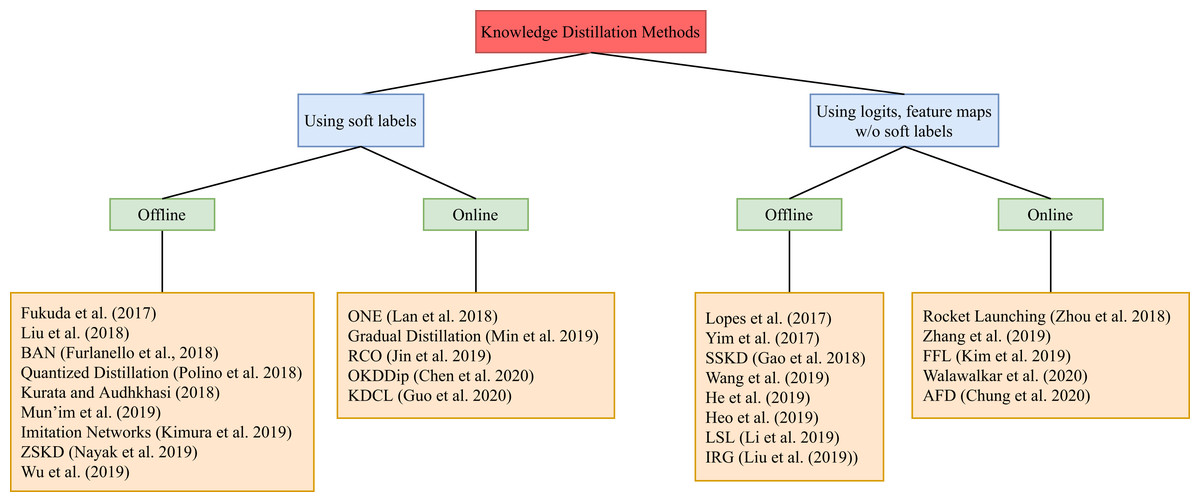
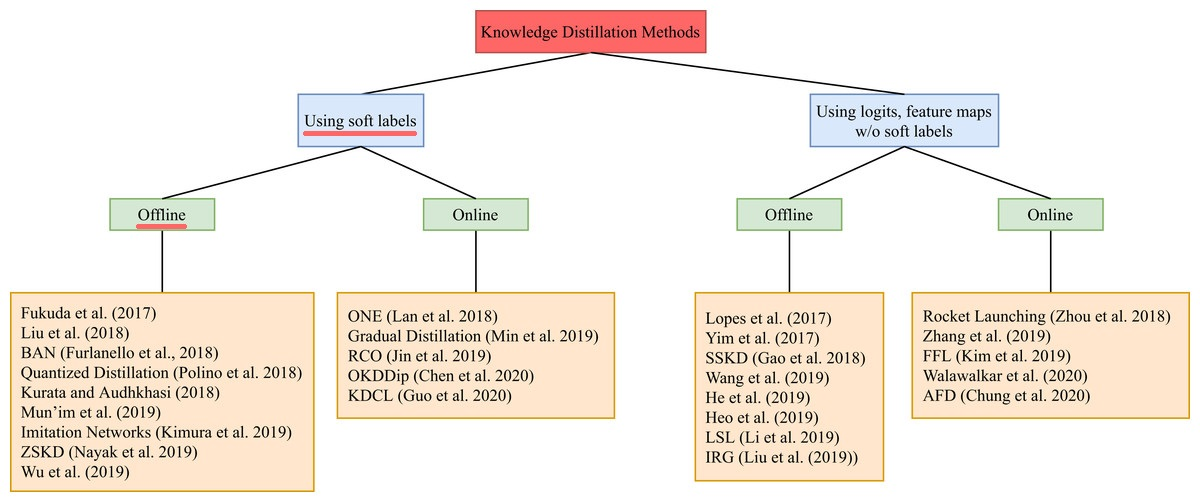
text

diff --git a/_drafts/2023-10-31-GPT-lite-Compression.md b/_drafts/2023-10-31-GPT-lite-Compression.md
@@ -5,13 +5,13 @@ categories: [machine learning, Transformer, GPT, DeepSpeed]
 tags: [machinelearning]
 ---
 
-Previously, in [Distributed training of a large GPT model with DeepSpeed]({{ site.baseurl }}{% post_url 2023-08-18-GPT-lite-DeepSpeed %}), we foccused on training a very large model on a distributed network of GPUs, to increase training speedup or model accuracy. In this post, we look at the other side of the spectrum: we will look at techniques for model speedup and compression that allow for a lower runtime and memory footprint during inference. This is particularly relevant for systems that require low latency or low cost to operate.
+Previously, in [Distributed training of a large GPT model with DeepSpeed]({{ site.baseurl }}{% post_url 2023-08-18-GPT-lite-DeepSpeed %}), we foccused on training a very large model on a distributed network of GPUs. The aim is to increase training speedup via parallelism, and increase model accuracy by adding model complexity. In this post, we will look at the opposite problem in the ML spectrum: model compression for lower runtime and lower memory footprint during inference. This is particularly relevant for embeddeded and real time systems where time and cost are an issue.
 
 ### Model and dataset
 
-Just like in our [previous post]({{ site.baseurl }}{% post_url 2023-08-18-GPT-lite-DeepSpeed %}), we will define the methods `get_dataset()` and `get_model()` that return a `torch.utils.data.Dataset` and `torch.nn.Module` for the two implementations that we will study in this post:
-1. the small variant of the GPT2 model ([Language Models are Few-Shot Learners](https://arxiv.org/abs/2005.14165), that we call the GPTlite model, <a href="/assets/GPT-lite-DeepSpeed/gptlite.py">`gptlite.py`</a>, trained on the [tiny shakespeare](https://github.com/karpathy/char-rnn/blob/master/data/tinyshakespeare/input.txt) dataset, whose objective is to generate text by predicting the next character in a sequence;
-2. the Benchark model in <a href="/assets/GPT-lite-DeepSpeed/benchmark.py">`benchmark.py`</a>, a Deep Neural Network with user defined width `W` and number of layers `L`, with input of size `W` and a categorical output of `W` classes.
+Just like in our [previous post]({{ site.baseurl }}{% post_url 2023-08-18-GPT-lite-DeepSpeed %}), we create the methods `get_dataset()` and `get_model()` that return a `torch.utils.data.Dataset` and `torch.nn.Module` for the two testbenches we will play with:
+1. the small variant of the ([GPT2 model](https://arxiv.org/abs/2005.14165), that we call the **GPTlite model**, implemented in <a href="/assets/GPT-lite-DeepSpeed/gptlite.py">`gptlite.py`</a>, trained on the [tiny shakespeare](https://github.com/karpathy/char-rnn/blob/master/data/tinyshakespeare/input.txt) dataset, whose objective is to generate text by predicting the next character in a sequence;
+2. the **Benchark model**, implemented in <a href="/assets/GPT-lite-DeepSpeed/benchmark.py">`benchmark.py`</a>, a Deep Neural Network with user-defined width `W` and number of layers `L`, with input of size `W`, and a categorical output of `W` classes, whose objective is to compute the modulo of the sum of squares of a random input dataset.
 
 {: style="text-align:center; font-size: small;"}
 <img width="20%" height="20%" src="/assets/GPT-lite/gpt_lite_compact.png"/>
@@ -23,22 +23,69 @@ The diagram our [GPT2 model]({{ site.baseurl }}{% post_url  2023-02-28-GPT-lite 
 
 ### Knowledge Distillation
 
-Knowledge Distillation (KD) is a technique used to train a smaller model (student) from a larger one (teacher). There are many claims of why we should perform KD instead of training a small model alone, but the main rationale is that the soft labels (distribution of assignments) of the large network is a much better label for the input than the user-provided hard labels, thus the smaller network can now be trained on the same input against a "cleaner" output, and requires less capacity to perform equally *or better* than the larger model.
+#### Detour: background
 
-As a quick example, take the two-label (dog vs cat) classification task. An image of a dog-looking cat will have the groundtruth label distribution `[0,1]` . After training the model, querying the model that that input would yield an output simillat to `[0.4, 0.6]` (i.e. the model believes it's a cat, but could less likely be a dog). In practice, the soft label `[0.4, 0.6]` is a better classification than the hard label `[0,1]` and using this better labels to train a smaller models will allow that student model to be smaller and maybe more accurate (this soft labels avoid confusion on the smaller model and saves model capacity for the real task as hand instead of the task of *cleaning* noise). 
+Knowledge Distillation (KD) is a technique used to train a smaller model (student) from a larger one (teacher). There are many claims of why we should perform KD instead of training a small model alone. The main rationale is that, in the case of multi-label classification, the soft labels (distribution of assignments) yielded by the trained large network is a more accurate representation of the distribution of the classes assigned to the input, when compared with the user-provided hard labels (binary). Thus, training a second network against a better distribution of labels allows the model capacity to be better utilized (yielding better performance) or to achieve similar performance with a smaller model.
 
-There are several categories of KD methods. We can try to minimized the soft labels between student and teacher models (as the example above), or intermeddiate layers such as logits or feature maps. We can also perform **offline distillation** where we train the teacher first, and then train the student based on the soft labels provided by the pre-trained teacher, or we can perform **online distillation**, where we train both the train and teacher simultaneously. We can use a single teacher of an ensemble of teachers. And we can use a student that is a scaled down version of the teacher, or a completely different architectures. If you are looking for details related to different KD methods, see [Distilling the Knowledge in a Neural Network, Google](https://arxiv.org/abs/1503.02531), [Knowledge distillation in deep learning and its applications](https://peerj.com/articles/cs-474/), and [Knowledge Distillation: A Survey](https://arxiv.org/abs/2006.05525). 
+As a quick example, take the two-label (dog, cat) classification task. An image of a cat that looks like a dog cat will have the groundtruth label distribution `[0,1]` . After training the model, querying the model for that same image would yield an output simillar to `[0.4, 0.6]`, i.e. the model believes it's a cat, but could also be a dog. In practice, the soft label `[0.4, 0.6]` is a better classification than the hard label `[0,1]` and using this better labels to train a smaller models will allow the capacity of the smaller model to be used better (i.e. less capacity spent on learning noise).
+
+There are several categories of KD methods. We can try to minimize the soft labels between student and teacher models (as the example above), intermediate layers such as logits, feature maps, etc. We can perform **offline distillation** where we train the teacher first, and then train the student against the output of the pre-trained teacher, or we can perform **online distillation**, where we train both the train and teacher simultaneously. We can use a single teacher or an ensemble of teachers. And we can use a student that is a scaled down version of the teacher's architecture, or a completely different architectures. If you are looking for details related to different KD methods, see [Distilling the Knowledge in a Neural Network, Google](https://arxiv.org/abs/1503.02531), [Knowledge distillation in deep learning and its applications](https://peerj.com/articles/cs-474/), and [Knowledge Distillation: A Survey](https://arxiv.org/abs/2006.05525). 
 
 {: style="text-align:center; font-size: small;"}
 <img width="100%" height="100%" src="/assets/GPT-lite-Compression/kd_methods.jpg"/>
 
 {: style="text-align:center; font-size: small;"}
- An illustration of the different knowledge distillation categories of methods and the different branches within each category. Source: [Knowledge distillation in deep learning and its applications](https://peerj.com/articles/cs-474/).
+ An illustration of the different knowledge distillation categories of methods and the different branches within each category. In this section, we will implement offline distillation using soft labels, underlined in red in the picture. Adapted from [Knowledge distillation in deep learning and its applications](https://peerj.com/articles/cs-474/).
 
-Here, we will perform offline distilallion of a student model using only the soft labels of a pre-trained teacher model. This is the simplest and most common use case, as large pre-trained models are readily available online these days, so we can train a smaller version of a very-large model that would be infeasible to train alone. 
+#### Implementing offline distillation using soft labels
 
-As a small nuance, when using a loss function that approximates student-teacher outputs, we will use KL-divergenge as the ~~metric~~ distance to minimize, instead of Cross Entropy (CE). In practice, Cross entropy loss is the same as the KL divergence off by a constant. Therefore, minimizing CE or KL is equivalent, however the loss value itself is not. In practice, KL will give zero for equal distributions, while CE will still give a constant.  There is also the claim that Mean Square Error is a better metric for Knowledge Distillation (in [Comparing Kullback-Leibler Divergence and Mean Squared Error Loss
-in Knowledge Distillation](https://arxiv.org/pdf/2105.08919.pdf) ) but we ignore that for now. 
+Here, we will perform offline distilallion of a student model using only the soft labels of a pre-trained teacher model. This is the simplest and most common implementation of distillation. This is particularly relevant nowadays where large pre-trained models are readily available online, and we have access to the model output during inference, so we can train a smaller version of a very-large teacher model that would be infeasible to train alone. 
+
+We will train a teacher model, dump its soft labels to disk, and then load a student model and training against those labels. This allows for KD to be implemented with a minimal code change, and perform several iterations of KD, where the student of one iteration becomes the teacher of the next one.
+As an alternative, you can have loaded both the teacher and student in memory, train the teacher, then perform inference while training a student. This alternative is faster, but requires both models to be loaded in memory, limiting the maximum size of the models, and only let's you do one distillation session. OThis is exemplified in the [Knowledge distillation tutorial on pytorch](https://pytorch.org/tutorials/beginner/knowledge_distillation_tutorial.html#knowledge-distillation-run).
+
+The training loops requires almost no changes compared to a regular training loop in PyTorch, apart from the `teacher_model` that performs training as a teacher (training against hard labels) or student (training against soft labels):  
+
+```python
+/// method that returns the filename of the soft labels of each batch
+label_filename = lambda batch, folder: os.path.join(folder,f"logits_{batch}.pt")
+
+def training(model, dataloader, teacher_model=False):
+  # reminder: CrossEntropyLoss(x) = NLLLoss(LogSoftmax(x))
+  # CrossEntropyLog expects unnormalized logits; NLLLoss expects log probabilities
+  model.train()
+  optimizer = torch.optim.Adam(model.parameters(), lr=2e-4)
+  start_time = time.time()
+  for b, (x, label) in enumerate(dataloader):
+    optimizer.zero_grad() 
+    output = model(x)
+    if teacher_model:
+      loss = F.cross_entropy(output, label)
+    else:
+      student_log_probs = F.log_softmax(output, dim=-1)
+      teacher_logits = torch.load(label_filename(b)).to(model.device)
+      teacher_probs = F.softmax(teacher_logits, dim=-1)
+      loss = F.kl_div(student_log_probs, teacher_probs, log_target=False)
+    loss.backward()
+    optimizer.step()
+  print(f"{b}:: {loss.item()}")
+  print(f"train runtime: {float(time.time() - start_time)} seconds")
+```
+
+Note that KL-divergenge as the ~~metric~~ value to minimize when doing student training, instead of Cross Entropy (CE). In practice, Cross entropy loss is the same as the KL divergence off by the target distribution entropy (a constant). Mathematically speaking:
+
+$$
+\begin{equation}
+\begin{split}
+D_{kl}(p \mid q) & = H(p,q) - \, H(p) \\
+ & = - \sum_i p_i \log (q_i) - \left( -\sum_i p_i \log (p_i) \right) \\
+ & = - \sum_i p_i \log (q_i) + \sum_i p_i \log (p_i) \\
+ & = \sum_i p_i \log \frac{p_i}{q_i} 
+\end{split}
+\end{equation}
+$$
+
+Therefore, minimizing CE is equivalent to minimizing KL, however the loss value itself is not, as it will include the value of entropy. In practice the value of CE of equivalent distributions will change a constant (the target distribution entropy) at every mini-batch, while the value of KL will be zero when distributions match. Thus, Cross entropy is typically used on fixed-target distributions (binary labels), while KL divergence is more suitable for applications involving the aproximation of two probability distributions. There is also the claim that Mean Square Error is a better metric for Knowledge Distillation (in [Comparing Kullback-Leibler Divergence and Mean Squared Error Loss in Knowledge Distillation](https://arxiv.org/pdf/2105.08919.pdf) ) but we ignore that for now. 
 
 In the [NLLLoss documentation](https://pytorch.org/docs/stable/generated/torch.nn.NLLLoss.html#torch.nn.NLLLoss): 
 "The input given through a forward call is expected to contain log-probabilities of each class. [...] Obtaining log-probabilities in a neural network is easily achieved by adding a LogSoftmax layer in the last layer of your network. You may use CrossEntropyLoss instead, if you prefer not to add an extra layer". When using [CrossEntropyLoss](https://pytorch.org/docs/stable/generated/torch.nn.CrossEntropyLoss.h), the input is expected to contain the unnormalized logits for each class". [KL-divergence](https://pytorch.org/docs/stable/generated/torch.nn.functional.kl_div.html) expects an `input` and a `target` argument to be passed as log-probability and o
@@ -48,6 +95,53 @@ Finally, here we ignored the KD hypermarameter **Temperature parameter** that sc
 More importantly, in here, teacher and student are trained in different runs, but using the soft labels loaded from disk. I prefer this approach as you can train a very large teacher alone, and subsequentely, train smaller students, where the student in one iteration becomes the teacher of the next one.
 
 
-As an alternative, for a faster distillation run, you could have loaded both the teacher and student in memory, train the teacher, then perform inference while training a student. But this requires all models to be loaded in memory, limiting the maximum size of the models, and only let's you to one distillation session. You may also have a KD loss function that includes in the loss function not only the KL-div of the final output of both models but the MSE of intermediatte layers of the teacher and the student. This is detailed in the [Knowledge distillation tutorial on pytorch](https://pytorch.org/tutorials/beginner/knowledge_distillation_tutorial.html#knowledge-distillation-run).
+The inference loop is pretty straightforward, with the subtle change that requires teacher model to output soft labels:
 
+```python
+def inference(model, dataloader, teacher_model=False):
+  model.eval()
+  start_time = time.time()
+  with torch.no_grad():
+    for b, (x, label) in enumerate(dataloader):
+      output = model(x)
+      accuracy = (x.argmax(1)==label).sum()/len(x) 
+      print(f"{b}: {accuracy}%")
+      if teacher_model:
+        torch.save(output, label_filename(b))
+  print(f"inference runtime: {float(time.time() - start_time)} seconds")
+```
+
+The main distillation loop needs to be executed twice: once to train the teacher, one to train the student. When the teacher runs, the `output` folder will be created with the soft labels, and that is the indicator for the second run to know that it must now train the student model. Also, just like in our [previous post]({{ site.baseurl }}{% post_url 2023-08-18-GPT-lite-DeepSpeed %}), we will define the methods `get_dataset()` and `get_model()` that return a `torch.utils.data.Dataset` and `torch.nn.Module` for the two models we will use as testbench:
+
+```python
+def main(scale_factor=0.8, output_folder="output", model='gptlite', random_seed=42):
+  
+  torch.manual_seed(random_seed) 
+  
+  #if folder exists: it contains labels from the teacher, we're training student
+  teacher_model = not os.path.exists(output_folder)
+  scale_factor = 1.0 if teacher_model else 0.8
+  os.makedirs(output_folder, exist_ok=True)
+
+  # initialize GPT-model and dataset. Teacher model will be scaled
+  if model.lower()=='gptlite':
+    gptlite.n_layer    = int(gptlite.n_layer*scale_factor)
+    gptlite.n_embd     = int(gptlite.n_embd*scale_factor)
+    gptlite.n_head     = int(gptlite.n_head*scale_factor)
+    gptlite.block_size = int(gptlite.block_size*scale_factor)
+    train_dataset, vocab_size = gptlite.get_dataset()
+    model = gptlite.get_model(vocab_size)
+  elif model.lower()=='benchmark':
+    W, L = 8192, 3 # wide model
+    # W, L = 256, 2048 # deep model
+    train_dataset = benchmark.get_dataset(W*scale_factor)
+    model = benchmark.get_model(W*scale_factor, L*scale_factor)
+  else:
+    raise NotImplementedError(f"model {model} not implemented")
+  
+  #first run, fully train model and output soft labels
+  #second run, load soft labels and train smaller model with it
+  training (model, train_dataset, teacher_model)
+  inference(model, train_dataset, teacher_model)
+```
 

diff --git a/_posts/2023-08-18-GPT-lite-DeepSpeed.md b/_posts/2023-08-18-GPT-lite-DeepSpeed.md
@@ -122,7 +122,7 @@ As a relevant remark, pre-existing models do not define activation checkpointing
 
 #### Detour: creating a benchmark model
 
-If we'd want instead to test the response of DeepSpeed scaling to a simple model of varying width and depth, we could create a **benchmark model** which is simply a DNN of `L` layers of width `W`, an input of size `W` and a categorical output of `W` labels. We create random input tensors drawn from an uniform distribution, and the assigned label computed as the modulum of the sum of squares of the input:
+If we'd want instead to test the response of DeepSpeed scaling to a simple model of varying width and depth, we could create a **benchmark model** which is simply a DNN of `L` layers of width `W`, an input of size `W` and a categorical output of `W` labels. The objective is to compute the modulo of the sum of squares of the input tensor, drawn from an uniform distribution:
 
 {: style="text-align:center; font-size: small;"}
 <img width="22%" height="22%" src="/assets/GPT-lite-cpp/benchmark_model.png"/>
